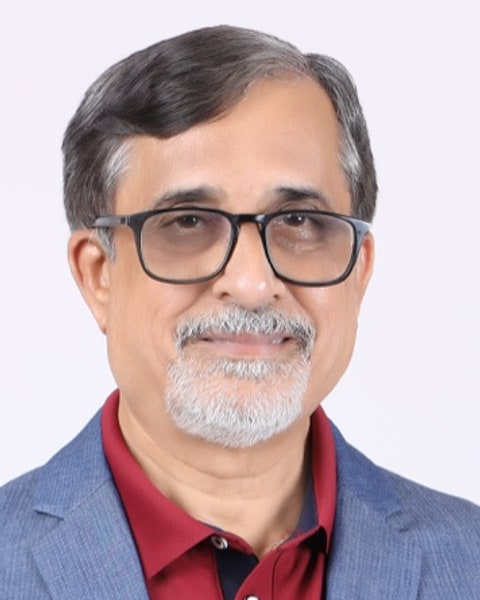
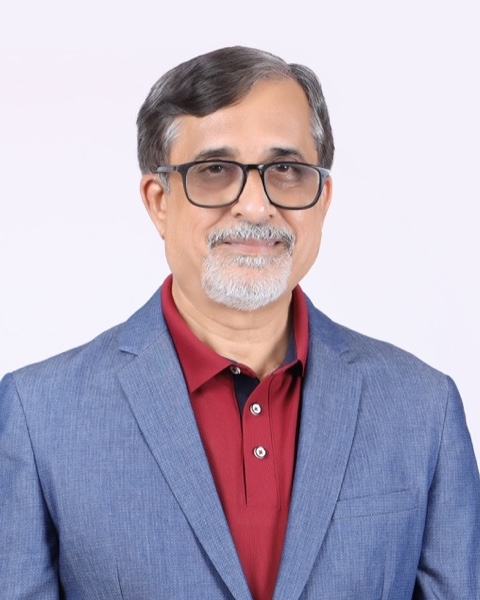
About: chest-up 4:5 portraits for all leaders

diff --git a/src/lib/assets.ts b/src/lib/assets.ts
@@ -95,9 +95,8 @@ export const Images = {
   people: {
     founders: "/images/people/founders.jpg",
     foundersNew: "/images/people/founders-leadership-group.jpg",
-    /** The four leaders, cropped to the same head-and-shoulders frame (4:5, face at the same size and height). */
+    /** The four leaders, cropped to the same chest-up frame (4:5, face at the same size and height). */
     leaderRadhakrishna: "/images/people/leader_radhakrishna_portrait.jpg",
-    // Framed from the top of her hair (which sits higher above her face), with the same headroom as the others.
     leaderSharada: "/images/people/leader_sharada_portrait-2.jpg",
     leaderSneehaCropped: "/images/people/leader_sneha_portrait.jpg",
     leaderShankar: "/images/people/leader_shankar_portrait.jpg",
